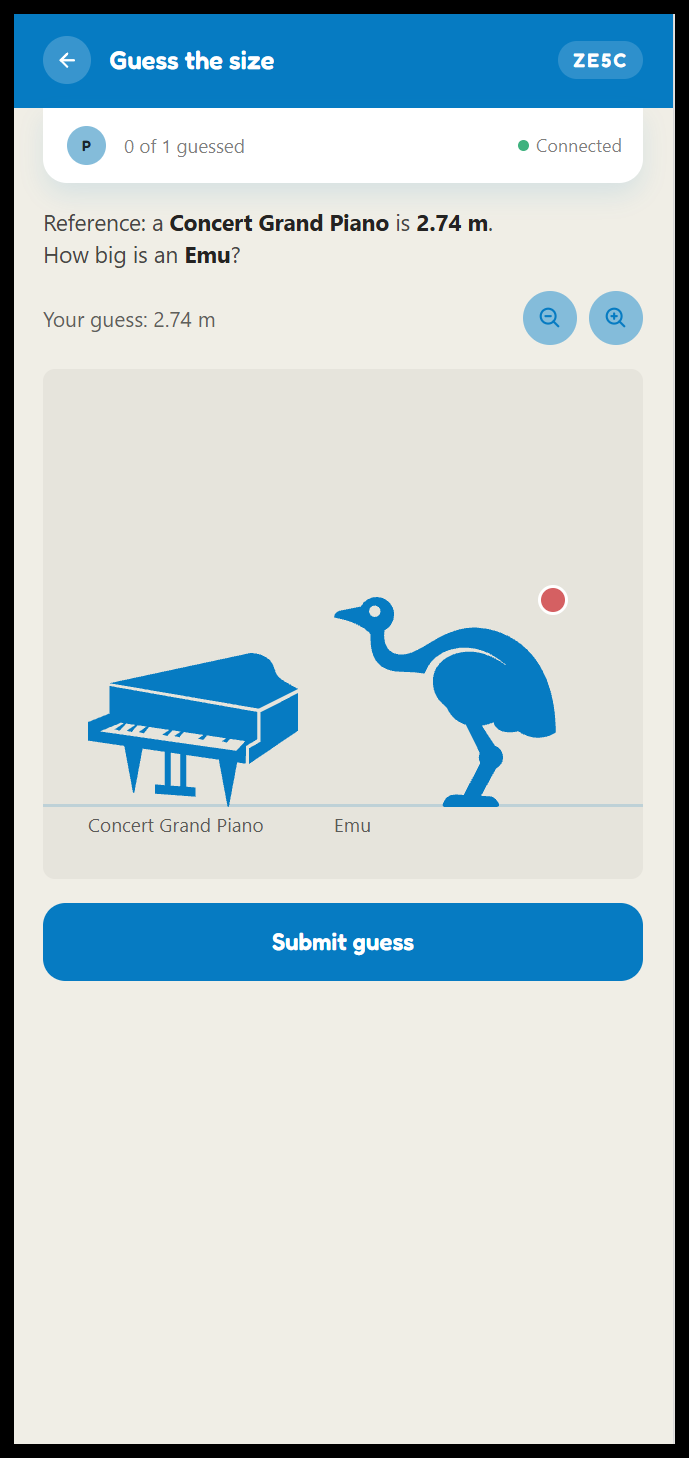
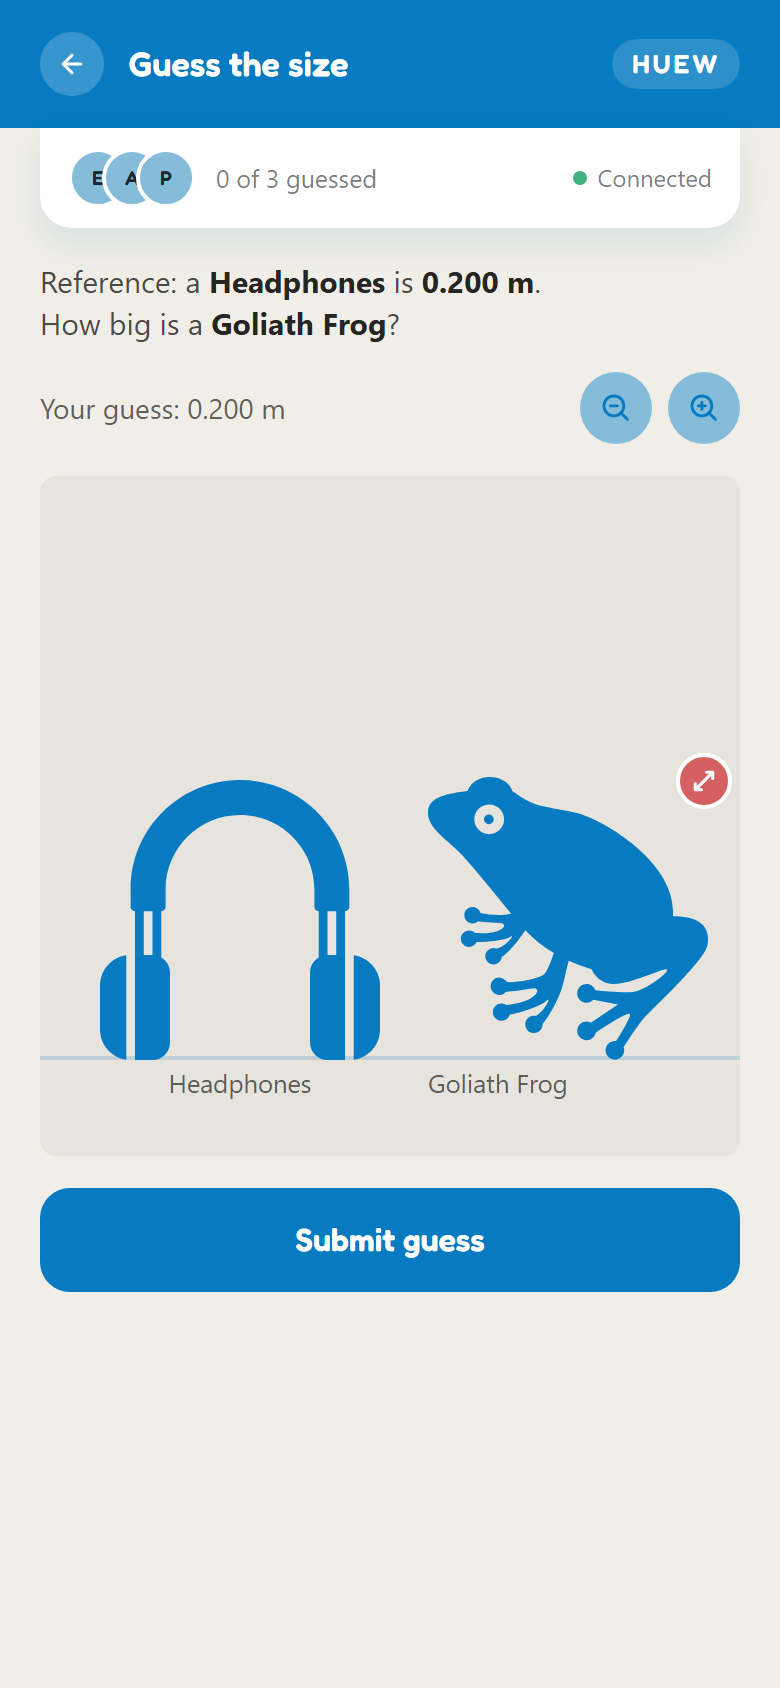
[chore] Update README

Changed region(s): [[0.0, 0.0, 1.0, 1.0], [0.7315, 0.1852, 0.9448, 0.2778], [0.8534, 0.4321, 0.9448, 0.4938]]

diff --git a/README.md b/README.md
@@ -4,17 +4,61 @@ A little collection of party games to play with friends. One person opens
 the lobby on their phone, shares a short room code, and everyone else joins
 in from their own phones — no app to download, no accounts to make.
 
-### Screenshots
-
 <p>
-  <img src="screenshots/homepage.png" alt="Home screen with the room code and list of games" width="220" />
-  <img src="screenshots/guess-the-size.png" alt="Guess the Size gameplay screen" width="220" />
-  <img src="screenshots/match-the-color.png" alt="Match the Color gameplay screen" width="220" />
+  <img src="screenshots/homepage.png" alt="Home screen with the join form and list of games" width="220" />
 </p>
 
 ### The games
 
-- **Guess the Size** — drag an object until you think it matches its real-world size next to another object. Closest guess wins.
-- **Match the Color** — blend your chameleon into the background color before time runs out. Closest match wins.
+<table>
+  <tr>
+    <td align="center" width="33%">
+      <img src="screenshots/guess-the-size.png" alt="Guess the Size: resizing a goliath frog next to headphones" width="220" /><br />
+      <b>Guess the Size</b> · 1+ players<br />
+      Drag an object until you think it matches its real-world size next to another object. Closest guess wins.
+    </td>
+    <td align="center" width="33%">
+      <img src="screenshots/match-the-color.png" alt="Match the Color: hue, saturation and brightness sliders under a chameleon" width="220" /><br />
+      <b>Match the Color</b> · 1+ players<br />
+      Blend your chameleon into the background color before time runs out. Closest match wins.
+    </td>
+    <td align="center" width="33%">
+      <img src="screenshots/hues-and-clues.png" alt="Hues and Clues: the color grid with other players' guess pins" width="220" /><br />
+      <b>Hues and Clues</b> · 3-8 players<br />
+      One player picks a secret color on the grid and gives a one-word clue. Everyone else tries to pinpoint it.
+    </td>
+  </tr>
+  <tr>
+    <td align="center" width="33%">
+      <img src="screenshots/telestrations.png" alt="Telestrations: guessing what a drawing of a house shows" width="220" /><br />
+      <b>Telestrations</b> · 4-8 players<br />
+      Draw a prompt, guess the next player's drawing, and watch the chain drift all the way around the table.
+    </td>
+    <td align="center" width="33%">
+      <img src="screenshots/secret-hitler.png" alt="Secret Hitler: a revealed Fascist role card showing a teammate" width="220" /><br />
+      <b>Secret Hitler</b> · 5-10 players<br />
+      A hidden-role game of political betrayal. Your phone privately shows your role; the rest happens out loud.
+    </td>
+    <td align="center" width="33%">
+      <img src="screenshots/imposter.png" alt="Imposter: a revealed word card reading Tesla" width="220" /><br />
+      <b>Imposter</b> · 3-12 players<br />
+      Everyone gets the same secret word except the imposter. Give one-word clues in person, then vote on who's faking it.
+    </td>
+  </tr>
+</table>
 
 More games get added over time.
+
+### Running it locally
+
+The games run on Cloudflare Workers with Durable Objects (via
+[PartyServer](https://www.npmjs.com/package/partyserver)).
+
+```sh
+npm install
+npm run dev     # local server at http://localhost:8787
+npm run deploy  # deploy to Cloudflare
+```
+
+To try it from phones on the same Wi-Fi, run `npm run dev -- --ip 0.0.0.0`
+and open `http://<your-computer's-local-ip>:8787` on each phone.
